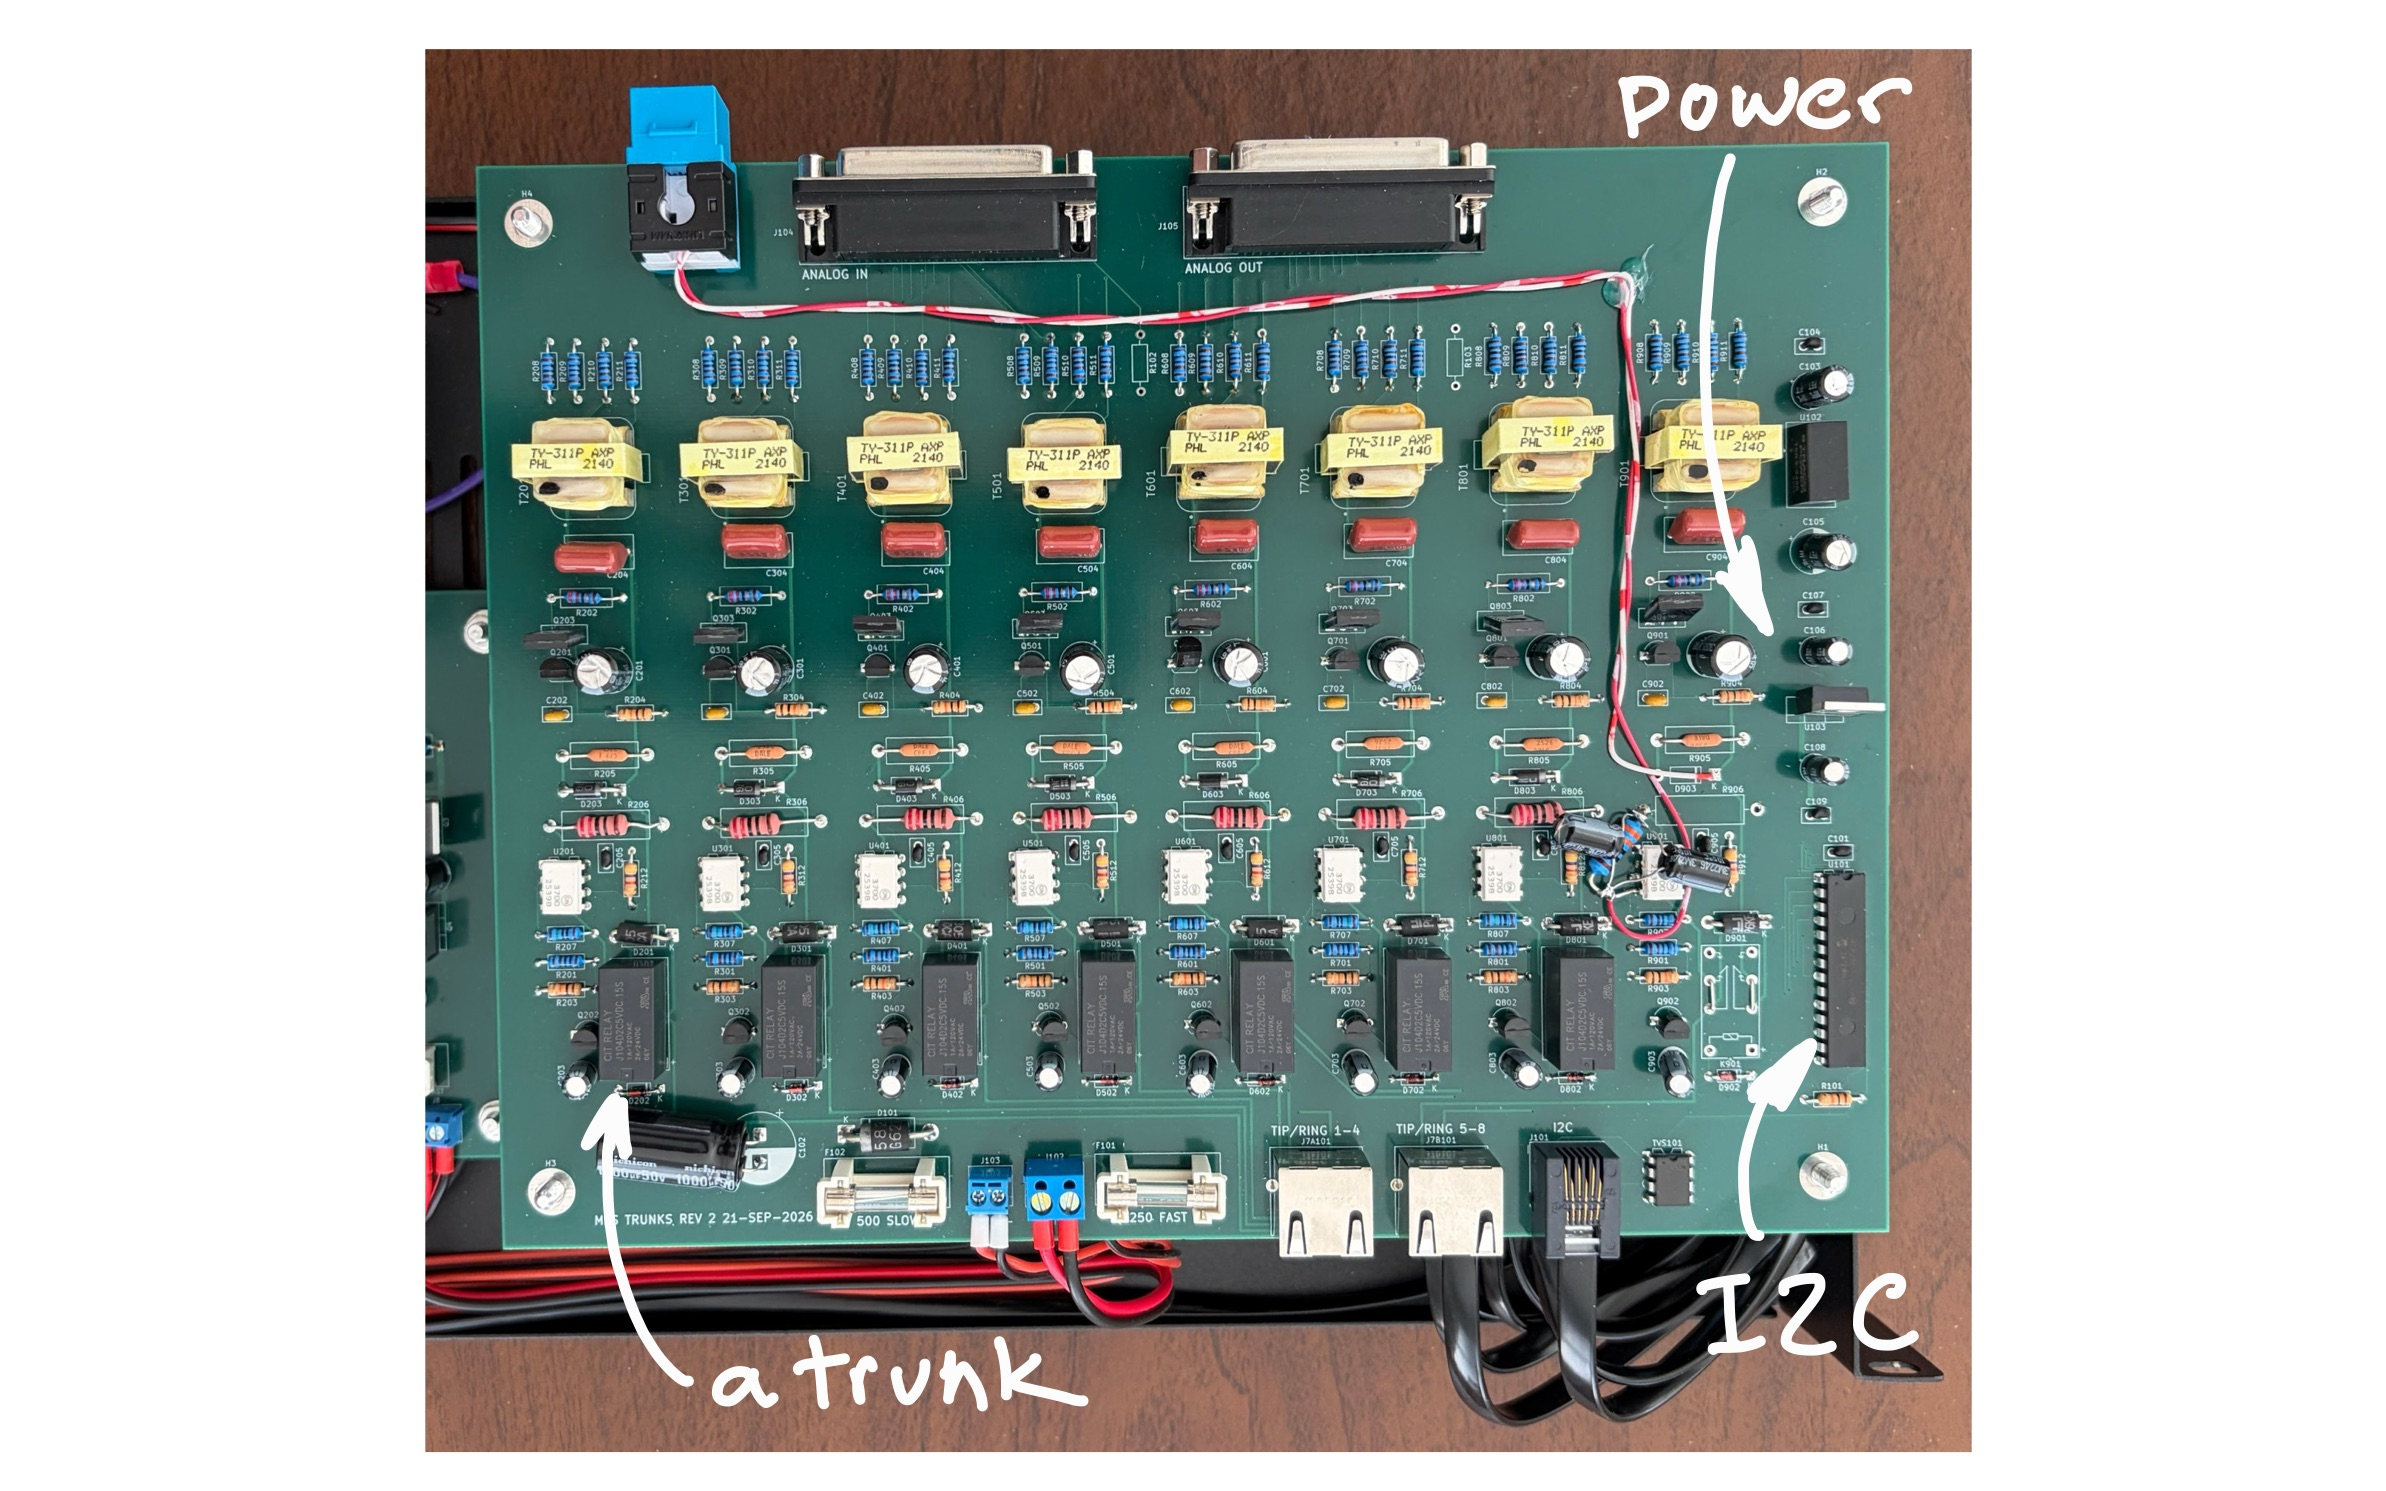
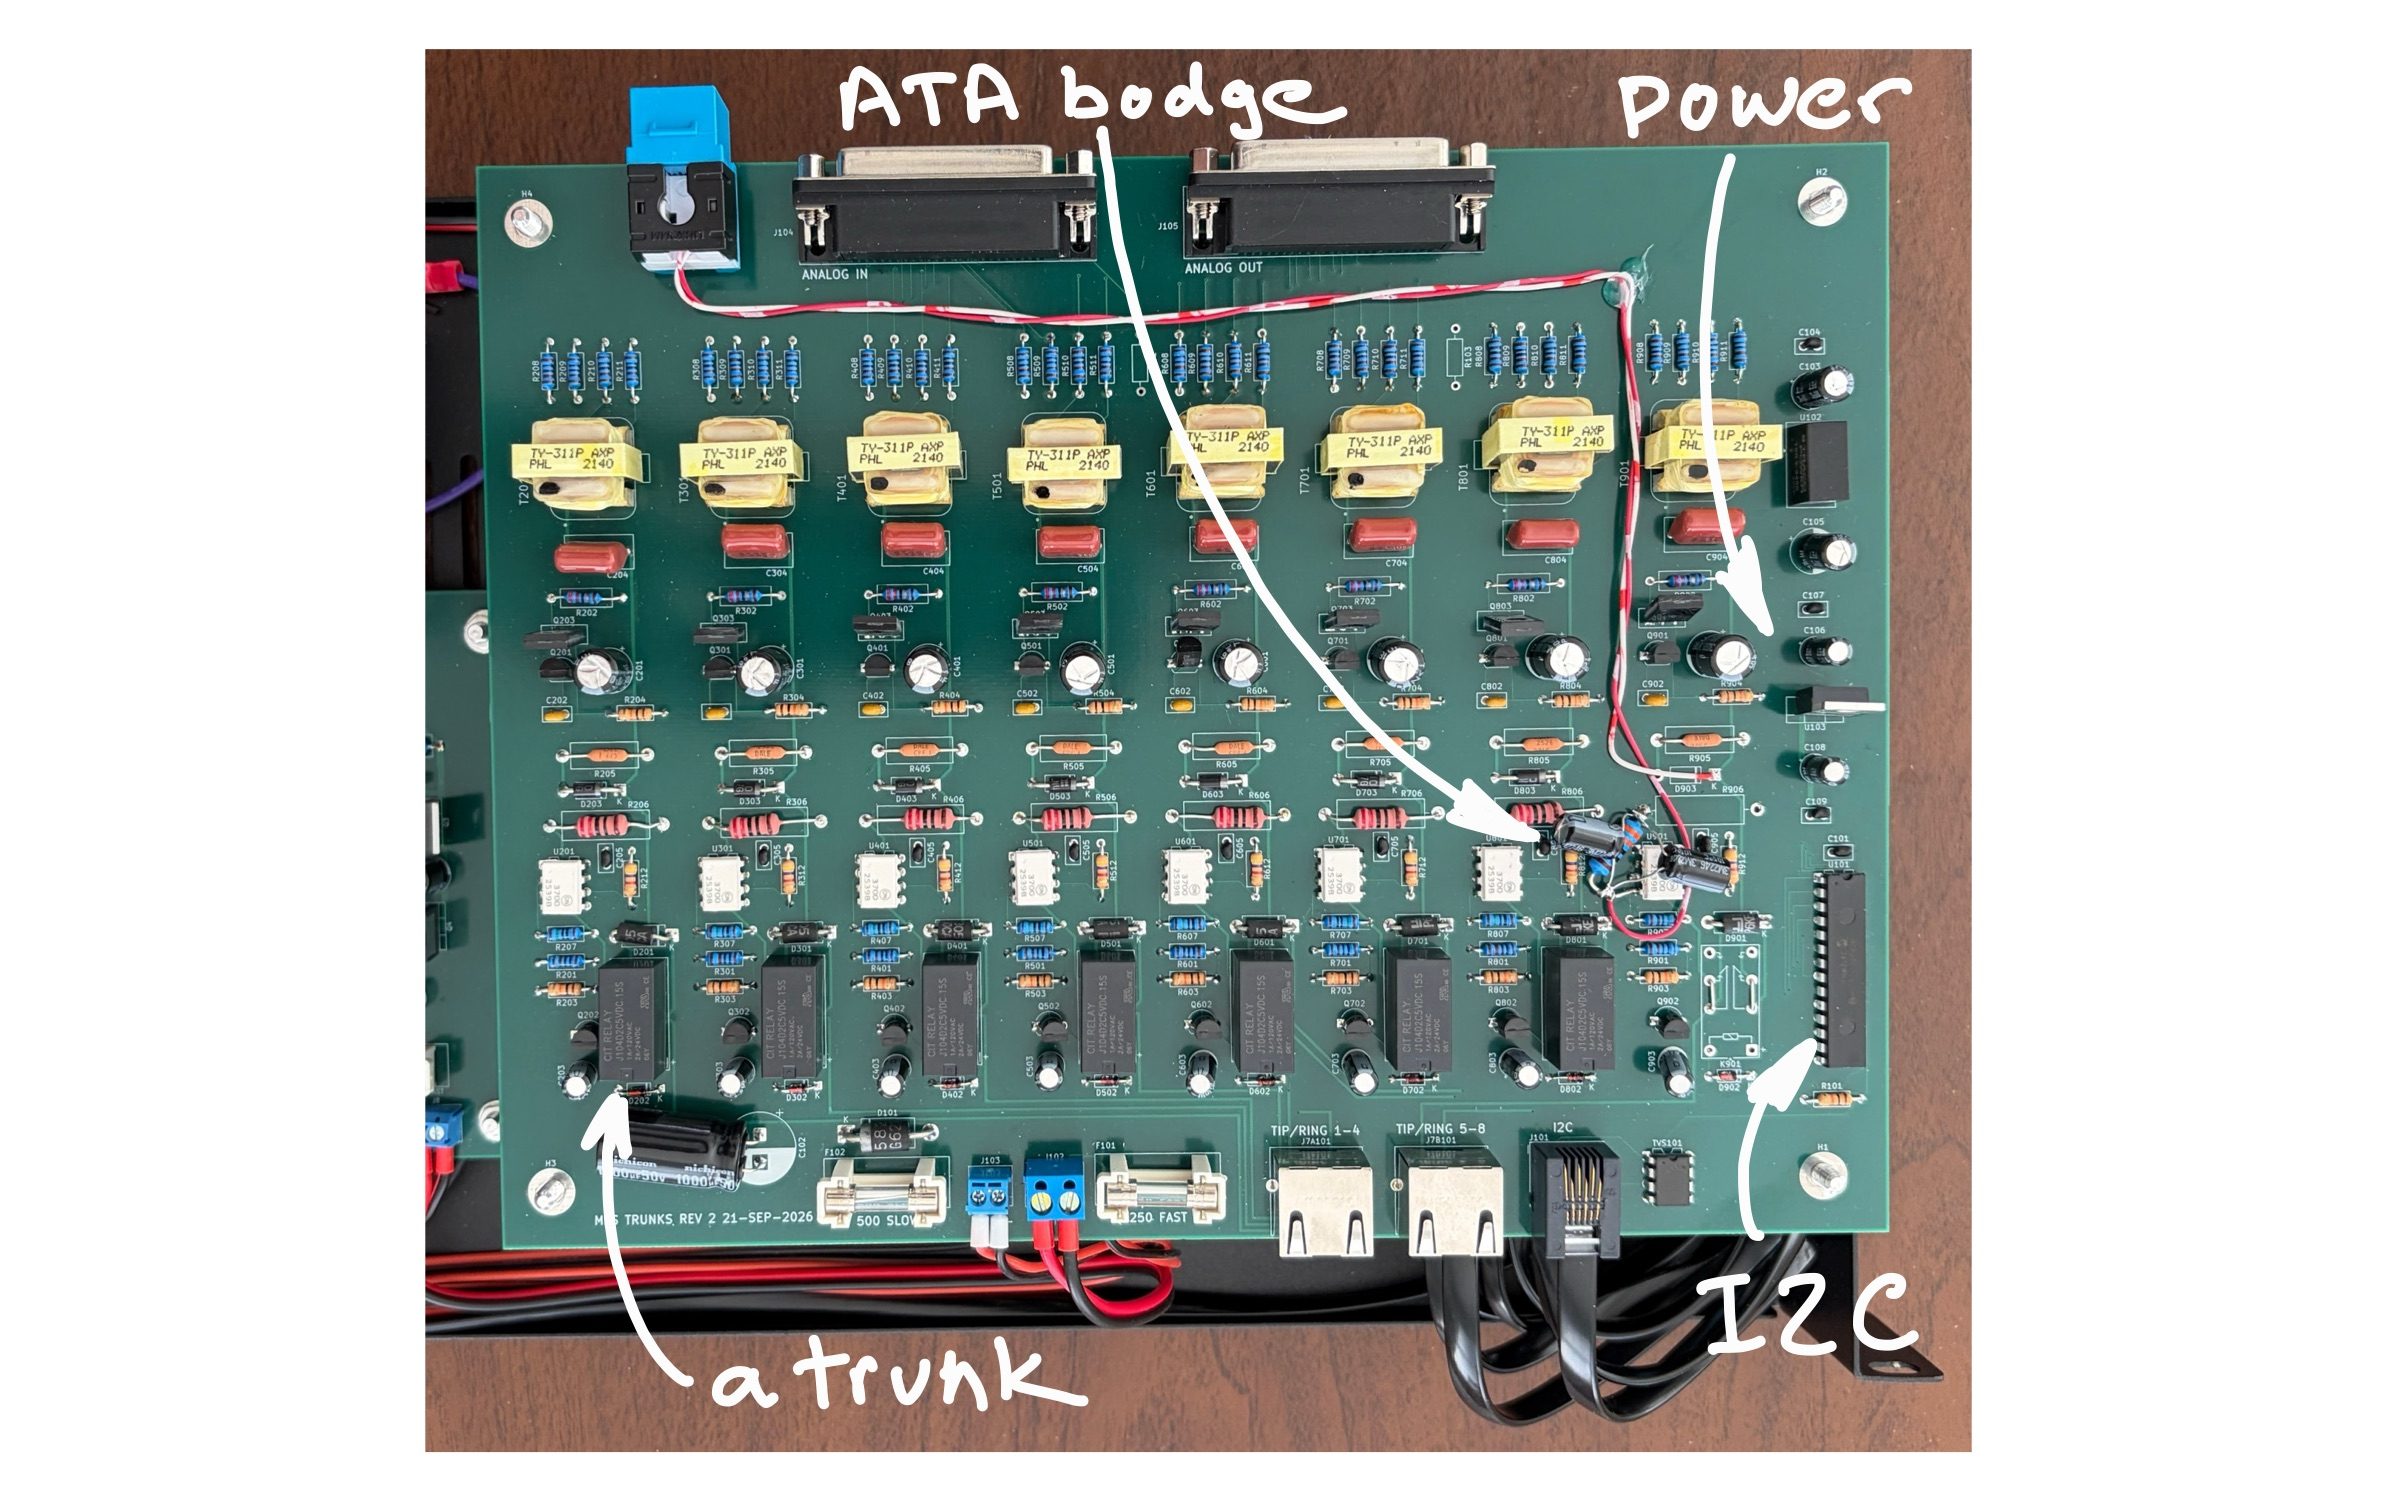
readme

diff --git a/README.md b/README.md
@@ -263,7 +263,6 @@ The schematic below shows one of the eight trunk circuits.
   <img src="docs/images/trunk-schematic.png" width="80%" />
 </p>
 
-
 The two transistors and associated components in the upper left make up a 28 mA
 constant-current source, which is close enough to the nominal 30 mA.
 
@@ -296,10 +295,6 @@ The first design fed the trunk through a 330 &Omega; resistor, and a ring
 key held by mistake would put 7 to 10 watts into a 1 W part. The
 constant-current source fixes the problem, because it passes the same current
 whether the line is idle, seized or being rung into.
-
-The following schematic shows the common section of the trunk board.
-
-[trunks common schematic]
 
 The ESP32 controls and monitors all trunk circuits via an MCP23017 I2C I/O expander.
 Each trunk has a control output to activate the ring relay and a sense input
@@ -340,7 +335,9 @@ The station board's eight circuits must do the following:
 
 The schematic below shows one of the eight station circuits.
 
-[station schematic]
+<p align="center">
+  <img src="docs/images/station-schematic.png" width="80%" />
+</p>
 
 Tip and ring from the switchboard connect to the relay on the left. The relay is
 normally open. To go offhook, the ESP32 turns the relay on, putting a 330 &Omega; resistor
@@ -367,10 +364,6 @@ used for other purposes, there are twenty-two game stations. I distributed
 the twenty-two stations and the real telephone across the thirty switchboard jacks, leaving seven unused.
 In theory I could have added a fourth station board, but the real limiting
 factor is the thirty-two Ferrofish channels.
-
-The following schematic shows the common section of the station board.
-
-[stations common schematic]
 
 The ESP32 controls and monitors all station circuits via an MCP23017 I2C I/O expander.
 Each station has a control output to activate the offhook relay and a sense input
